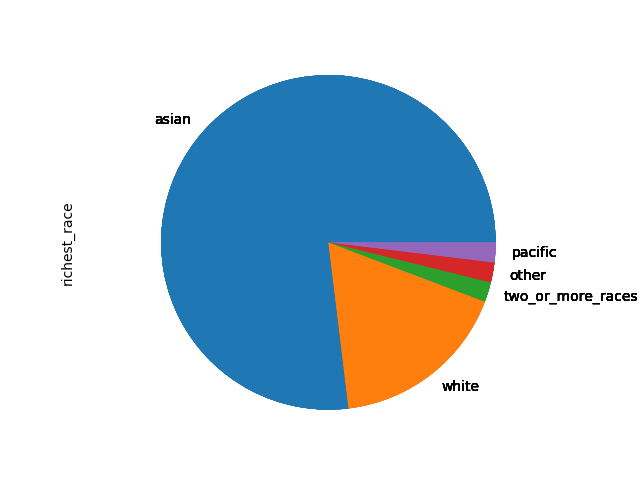
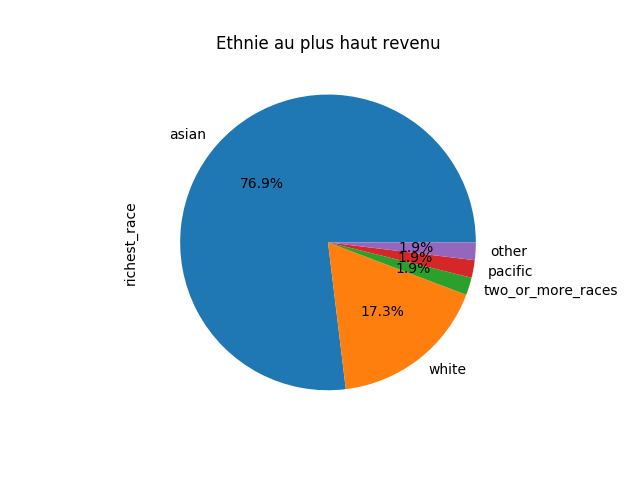
displays charts without runtime error and with percentages

diff --git a/templates/analysis.html b/templates/analysis.html
@@ -3,6 +3,16 @@
 {%block main %}
   <h1>Analyse des données</h1>
 
-  <h2>Distribution empirique de la  riches par ethnie</h2>
-  <img src="{{ url_for('static', filename='images/distri_richest_race.png')}}" alt="">
+  <section class="container">
+    <h2>Distribution du revenu médian des foyers par ethnie</h2>
+    <div class="row">
+      <div class="col-sm-6">
+        <img class="img-fluid" src="{{ url_for('static', filename='images/distri_richest_race.png')}}" alt="">
+      </div>
+      <div class="col-sm-6">
+        <img class="img-fluid" src="{{ url_for('static', filename='images/distri_poorest_race.png')}}" alt="">
+      </div>
+    </div>
+  </section>
+
 {% endblock %}

diff --git a/views.py b/views.py
@@ -2,6 +2,9 @@ from os import path
 
 import pandas as pd
 import re
+# Avoid runtime and threading errors because not displaying the charts
+import matplotlib
+matplotlib.use('Agg')
 import matplotlib.pyplot as plt
 
 from flask import Flask
@@ -60,7 +63,10 @@ def index():
 def analysis():
     if path.exists("data/final_income_data.csv"):
         data = pd.read_csv("data/final_income_data.csv", decimal=",")
-        data["richest_race"].value_counts(normalize=True).plot(kind='pie')
-        plt.axis('equal')
-        test = plt.savefig(fname="static/images/distri_richest_race")
-    return render_template("analysis.html", test=test)
+        data["richest_race"].value_counts(normalize=True).plot(kind='pie', autopct='%1.1f%%', title="Ethnie au plus haut revenu")
+        plt.savefig(fname="static/images/distri_richest_race")
+        plt.close()
+        data["poorest_race"].value_counts(normalize=True).plot(kind='pie', autopct='%1.1f%%', title="Ethnie au plus bas revenu")
+        plt.savefig(fname="static/images/distri_poorest_race")
+        plt.close()
+    return render_template("analysis.html")
